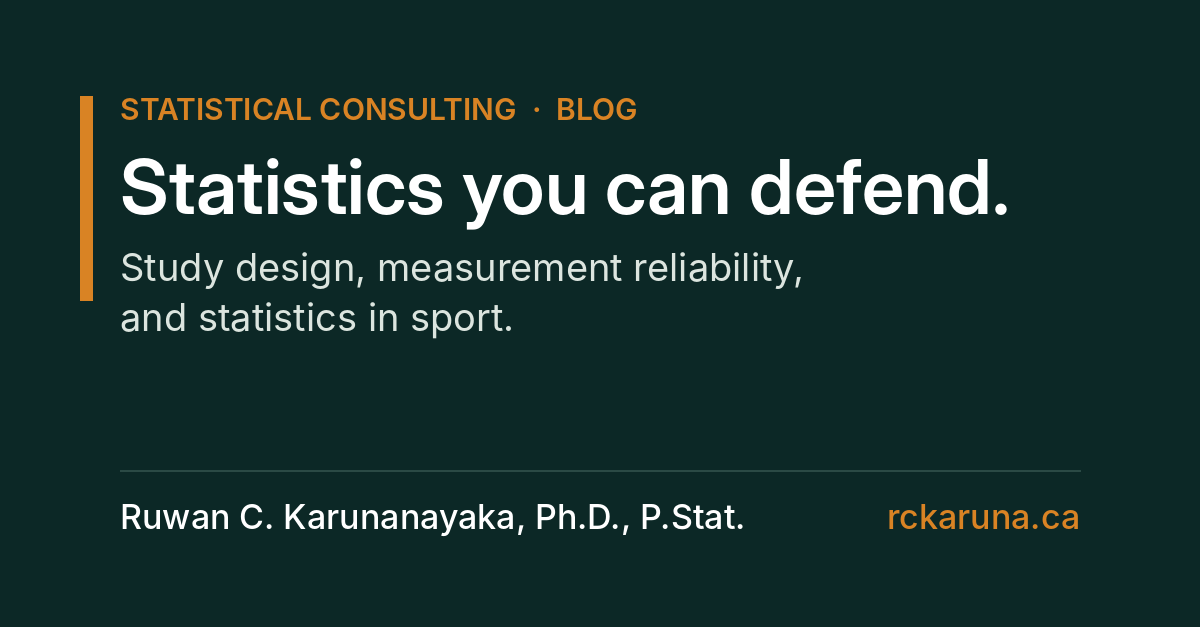
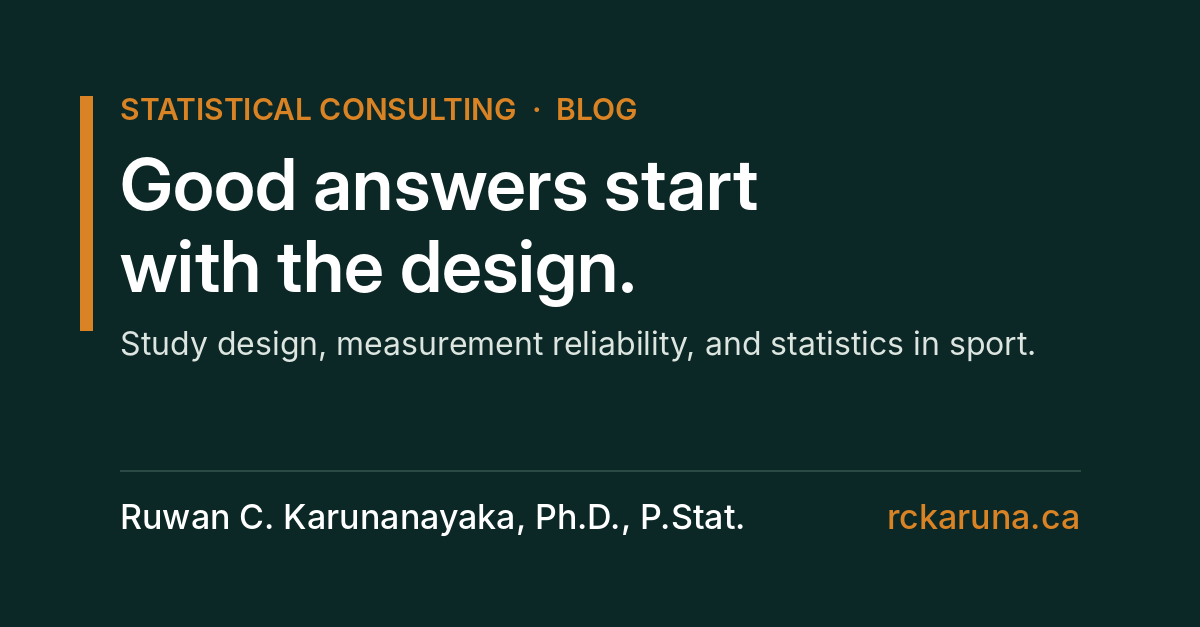
New headline; remove fee wording

Changed region(s): [[0.0617, 0.2424, 0.8633, 0.5758]]

diff --git a/docs/index.html b/docs/index.html
@@ -148,8 +148,7 @@ window.addEventListener("DOMContentLoaded", function () {
         { "@type": "AdministrativeArea", "name": "British Columbia" },
         { "@type": "Country", "name": "Canada" },
         { "@type": "Place", "name": "Remote / Worldwide" }
-      ],
-      "priceRange": "$$"
+      ]
     }
   ]
 }
@@ -255,10 +254,10 @@ window.addEventListener("DOMContentLoaded", function () {
 <div class="eyebrow">
 <p>Statistical Consulting</p>
 </div>
-<section id="statistics-you-can-defend." class="level1">
-<h1>Statistics you can defend.</h1>
+<section id="good-answers-start-with-the-design." class="level1">
+<h1>Good answers start with the design.</h1>
 <div class="lede">
-<p>I’m an accredited professional statistician (P.Stat.) and Associate Professor. I help researchers, teams, and organizations design studies properly, model data honestly, and deliver results that hold up to scrutiny, from the first power calculation to the final dashboard.</p>
+<p>I’m an accredited professional statistician (P.Stat.) and Associate Professor. I help researchers, teams, and organizations design studies properly, model data honestly, and report results plainly, from the first power calculation to the final dashboard.</p>
 </div>
 <p><a href="./consulting.html" class="btn-cta primary">Work with me</a> <a href="mailto:consulting@rckaruna.ca?subject=Statistical%20consulting%20enquiry&amp;body=1.%20The%20question%20I%20am%20trying%20to%20answer%3A%0A%0A%0A2.%20The%20data%20%28planned%2C%20being%20collected%2C%20or%20in%20hand%29%3A%0A%0A%0A3.%20My%20deadline%3A%0A%0A%0A4.%20Who%20will%20use%20the%20result%20%28committee%2C%20journal%2C%20funder%2C%20management%29%3A%0A%0A%0A5.%20Ethics%20board%20or%20grant%20involved%20%28yes%20or%20no%29%3A%0A%0A" class="btn-cta ghost">Email me</a></p>
 <div style="margin-top:1rem">
@@ -270,7 +269,7 @@ window.addEventListener("DOMContentLoaded", function () {
 <p><img src="assets/ruwan.jpg" class="hero-photo img-fluid" alt="Ruwan C. Karunanayaka"></p>
 <section id="what-clients-get" class="level3 card-plain">
 <h3 class="anchored" data-anchor-id="what-clients-get">What clients get</h3>
-<p>A defensible answer, not just a number: the right design for the question, methods chosen for the data rather than habit, uncertainty stated plainly, and a writeup or interactive tool your stakeholders can use.</p>
+<p>A sound answer, not just a number: the right design for the question, methods chosen for the data rather than habit, uncertainty stated plainly, and a writeup or interactive tool your stakeholders can use.</p>
 </section>
 </div>
 </div>
@@ -369,8 +368,8 @@ window.addEventListener("DOMContentLoaded", function () {
 <div class="eyebrow">
 <p>Get in touch</p>
 </div>
-<section id="have-a-study-a-dataset-or-a-decision-to-defend" class="level2">
-<h2 class="anchored" data-anchor-id="have-a-study-a-dataset-or-a-decision-to-defend">Have a study, a dataset, or a decision to defend?</h2>
+<section id="have-a-study-a-dataset-or-a-decision-to-make" class="level2">
+<h2 class="anchored" data-anchor-id="have-a-study-a-dataset-or-a-decision-to-make">Have a study, a dataset, or a decision to make?</h2>
 <p>Tell me the question you are trying to answer and where the data stands. The earlier I am involved, the more I can help.</p>
 <p><a href="mailto:consulting@rckaruna.ca?subject=Statistical%20consulting%20enquiry&amp;body=1.%20The%20question%20I%20am%20trying%20to%20answer%3A%0A%0A%0A2.%20The%20data%20%28planned%2C%20being%20collected%2C%20or%20in%20hand%29%3A%0A%0A%0A3.%20My%20deadline%3A%0A%0A%0A4.%20Who%20will%20use%20the%20result%20%28committee%2C%20journal%2C%20funder%2C%20management%29%3A%0A%0A%0A5.%20Ethics%20board%20or%20grant%20involved%20%28yes%20or%20no%29%3A%0A%0A" class="btn-cta primary">Email me →</a> <a href="./consulting.html#how-an-engagement-works" class="btn-cta ghost-light">How an engagement works</a></p>
 </section>

diff --git a/docs/consulting.html b/docs/consulting.html
@@ -148,8 +148,7 @@ window.addEventListener("DOMContentLoaded", function () {
         { "@type": "AdministrativeArea", "name": "British Columbia" },
         { "@type": "Country", "name": "Canada" },
         { "@type": "Place", "name": "Remote / Worldwide" }
-      ],
-      "priceRange": "$$"
+      ]
     }
   ]
 }
@@ -264,7 +263,7 @@ window.addEventListener("DOMContentLoaded", function () {
 <header id="title-block-header" class="quarto-title-block default">
 <div class="quarto-title">
 <h1 class="title">Statistical consulting</h1>
-<p class="subtitle lead">Design the study right, model it honestly, and hand back something you can defend.</p>
+<p class="subtitle lead">Design the study right, model it honestly, and report what the data can support.</p>
 </div>
 
 <div>
@@ -399,11 +398,11 @@ window.addEventListener("DOMContentLoaded", function () {
 <h2 class="anchored" data-anchor-id="faq">FAQ</h2>
 <div class="faq">
 <p><strong>Do you work remotely?</strong> Yes. I’m based in the Fraser Valley, BC, and most engagements run remotely; I regularly work across time zones. In-person is possible locally.</p>
-<p><strong>How are engagements structured?</strong> We start with a short, no-cost conversation about your project. From there, work is scoped either as a fixed-price project with defined deliverables or at an hourly rate for open-ended advising; ongoing arrangements are available for teams that want a statistician on call.</p>
+<p><strong>How are engagements structured?</strong> We start with a short conversation about your project. From there, work is scoped either as a defined project with agreed deliverables or as open-ended advising. Ongoing arrangements are available for teams that want a statistician on call.</p>
 <p><strong>Do you sign NDAs?</strong> Yes. Confidentiality is standard practice. Your data and results are never shared or reused, and I’m happy to sign your NDA or supply one.</p>
 <p><strong>For academic projects, how do you handle authorship?</strong> By the usual scientific norms: if my contribution is substantial and intellectual (methods development, analysis design, or interpretation), co-authorship is appropriate and we agree on it at the outset. For narrower advising, an acknowledgment is the right fit. Either way, it’s settled before the work starts.</p>
 <p><strong>What should I have ready before contacting me?</strong> Just three things: the question you’re trying to answer, where the data stands (planned, in collection, or in hand), and your timeline. You don’t need a polished brief. The <a href="./preparing.html">preparation guide</a> has a fuller list. If the data isn’t collected yet, that is the best time to talk.</p>
-<p><strong>Is my project too small?</strong> No.&nbsp;Engagements range from a one-hour review of an analysis or a reviewer response to multi-month collaborations. Short reviews often deliver the most value per dollar. Catching a design problem early is cheap, and fixing it after data collection is not.</p>
+<p><strong>Is my project too small?</strong> No.&nbsp;Engagements range from a one-hour review of an analysis or a reviewer response to multi-month collaborations. Short reviews are often the most useful. Catching a design problem early is cheap, and fixing it after data collection is not.</p>
 </div>
 <div class="eyebrow">
 <p>Get in touch</p>

diff --git a/docs/404.html b/docs/404.html
@@ -147,8 +147,7 @@ window.addEventListener("DOMContentLoaded", function () {
         { "@type": "AdministrativeArea", "name": "British Columbia" },
         { "@type": "Country", "name": "Canada" },
         { "@type": "Place", "name": "Remote / Worldwide" }
-      ],
-      "priceRange": "$$"
+      ]
     }
   ]
 }

diff --git a/docs/blog.html b/docs/blog.html
@@ -179,8 +179,7 @@ window.addEventListener("DOMContentLoaded", function () {
         { "@type": "AdministrativeArea", "name": "British Columbia" },
         { "@type": "Country", "name": "Canada" },
         { "@type": "Place", "name": "Remote / Worldwide" }
-      ],
-      "priceRange": "$$"
+      ]
     }
   ]
 }

diff --git a/docs/posts/batting-average-reliability/index.html b/docs/posts/batting-average-reliability/index.html
@@ -150,8 +150,7 @@ window.addEventListener("DOMContentLoaded", function () {
         { "@type": "AdministrativeArea", "name": "British Columbia" },
         { "@type": "Country", "name": "Canada" },
         { "@type": "Place", "name": "Remote / Worldwide" }
-      ],
-      "priceRange": "$$"
+      ]
     }
   ]
 }

diff --git a/docs/posts/bowling-sequences/index.html b/docs/posts/bowling-sequences/index.html
@@ -150,8 +150,7 @@ window.addEventListener("DOMContentLoaded", function () {
         { "@type": "AdministrativeArea", "name": "British Columbia" },
         { "@type": "Country", "name": "Canada" },
         { "@type": "Place", "name": "Remote / Worldwide" }
-      ],
-      "priceRange": "$$"
+      ]
     }
   ]
 }

diff --git a/docs/posts/combine-to-sundays/index.html b/docs/posts/combine-to-sundays/index.html
@@ -150,8 +150,7 @@ window.addEventListener("DOMContentLoaded", function () {
         { "@type": "AdministrativeArea", "name": "British Columbia" },
         { "@type": "Country", "name": "Canada" },
         { "@type": "Place", "name": "Remote / Worldwide" }
-      ],
-      "priceRange": "$$"
+      ]
     }
   ]
 }

diff --git a/docs/posts/covering-arrays/index.html b/docs/posts/covering-arrays/index.html
@@ -150,8 +150,7 @@ window.addEventListener("DOMContentLoaded", function () {
         { "@type": "AdministrativeArea", "name": "British Columbia" },
         { "@type": "Country", "name": "Canada" },
         { "@type": "Place", "name": "Remote / Worldwide" }
-      ],
-      "priceRange": "$$"
+      ]
     }
   ]
 }

diff --git a/docs/posts/handball-dependability/index.html b/docs/posts/handball-dependability/index.html
@@ -150,8 +150,7 @@ window.addEventListener("DOMContentLoaded", function () {
         { "@type": "AdministrativeArea", "name": "British Columbia" },
         { "@type": "Country", "name": "Canada" },
         { "@type": "Place", "name": "Remote / Worldwide" }
-      ],
-      "priceRange": "$$"
+      ]
     }
   ]
 }

diff --git a/docs/posts/leaderboard-noise/index.html b/docs/posts/leaderboard-noise/index.html
@@ -150,8 +150,7 @@ window.addEventListener("DOMContentLoaded", function () {
         { "@type": "AdministrativeArea", "name": "British Columbia" },
         { "@type": "Country", "name": "Canada" },
         { "@type": "Place", "name": "Remote / Worldwide" }
-      ],
-      "priceRange": "$$"
+      ]
     }
   ]
 }

diff --git a/docs/posts/ofat-vs-factorial/index.html b/docs/posts/ofat-vs-factorial/index.html
@@ -150,8 +150,7 @@ window.addEventListener("DOMContentLoaded", function () {
         { "@type": "AdministrativeArea", "name": "British Columbia" },
         { "@type": "Country", "name": "Canada" },
         { "@type": "Place", "name": "Remote / Worldwide" }
-      ],
-      "priceRange": "$$"
+      ]
     }
   ]
 }

diff --git a/docs/posts/reliability-for-counts/index.html b/docs/posts/reliability-for-counts/index.html
@@ -150,8 +150,7 @@ window.addEventListener("DOMContentLoaded", function () {
         { "@type": "AdministrativeArea", "name": "British Columbia" },
         { "@type": "Country", "name": "Canada" },
         { "@type": "Place", "name": "Remote / Worldwide" }
-      ],
-      "priceRange": "$$"
+      ]
     }
   ]
 }
